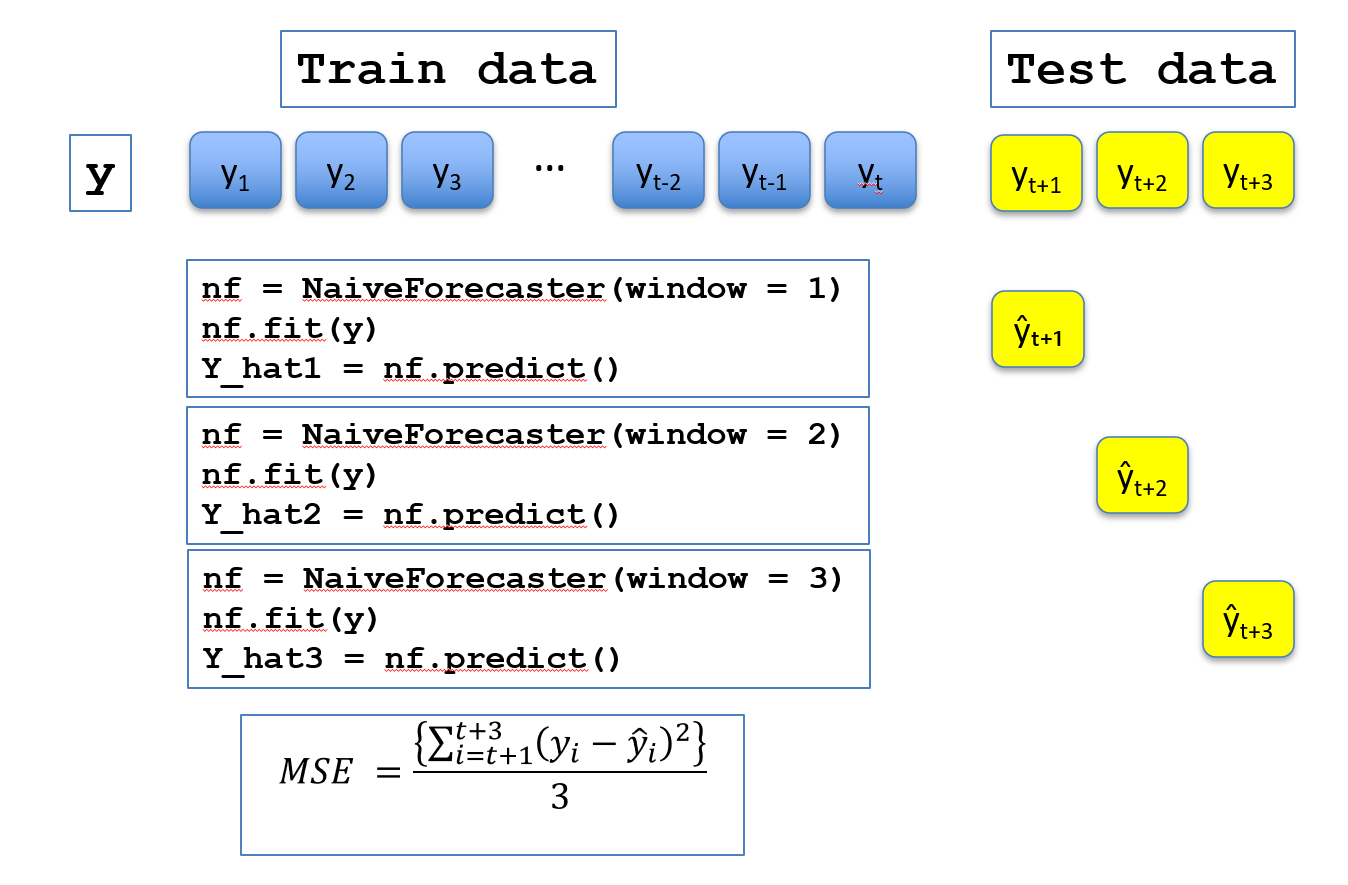
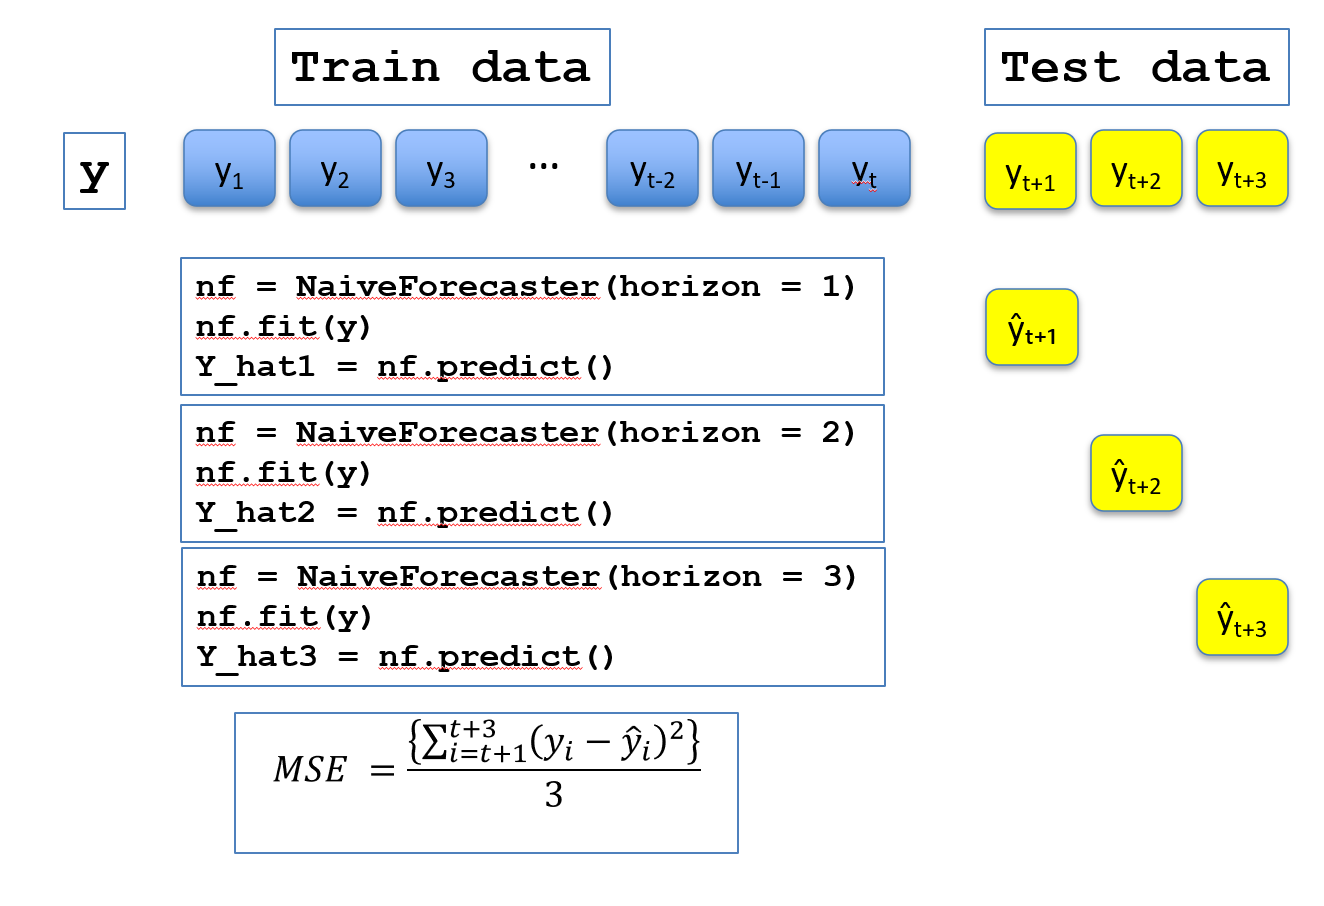
corrections

diff --git a/aeon/forecasting/_direct.py b/aeon/forecasting/_direct.py
@@ -2,6 +2,7 @@
 
 import numpy as np
 
+from aeon.base._base import _clone_estimator
 from aeon.forecasting.base import BaseForecaster
 
 
@@ -10,15 +11,6 @@ def direct_forecasting(forecaster, y: np.ndarray, steps_ahead: int, exog=None):
     Forecast ``steps_ahead`` using a BaseForecaster instance for each horizon.
 
     Implements the direct strategy, cloning the given estimator and setting its horizon.
-
-    .. code-block:: python
-
-        preds = []
-        for h in 1 to steps_ahead:
-            model = clone(forecaster)
-            model.horizon = h
-            model.fit(y)
-            preds.append(model.predict())
 
     Parameters
     ----------
@@ -36,8 +28,6 @@ def direct_forecasting(forecaster, y: np.ndarray, steps_ahead: int, exog=None):
     predictions : np.ndarray
         An array of shape (steps_ahead,) containing the forecasts for each horizon.
     """
-    from copy import deepcopy
-
     # Check forecaster is an object and a BaseForecaster
     if isinstance(forecaster, type):
         raise TypeError(
@@ -52,7 +42,7 @@ def direct_forecasting(forecaster, y: np.ndarray, steps_ahead: int, exog=None):
 
     preds = np.zeros(steps_ahead)
     for i in range(1, steps_ahead + 1):
-        f = deepcopy(forecaster)
+        f = _clone_estimator(forecaster)
         f.horizon = i
         f.fit(y)
         preds[i - 1] = f.predict()
